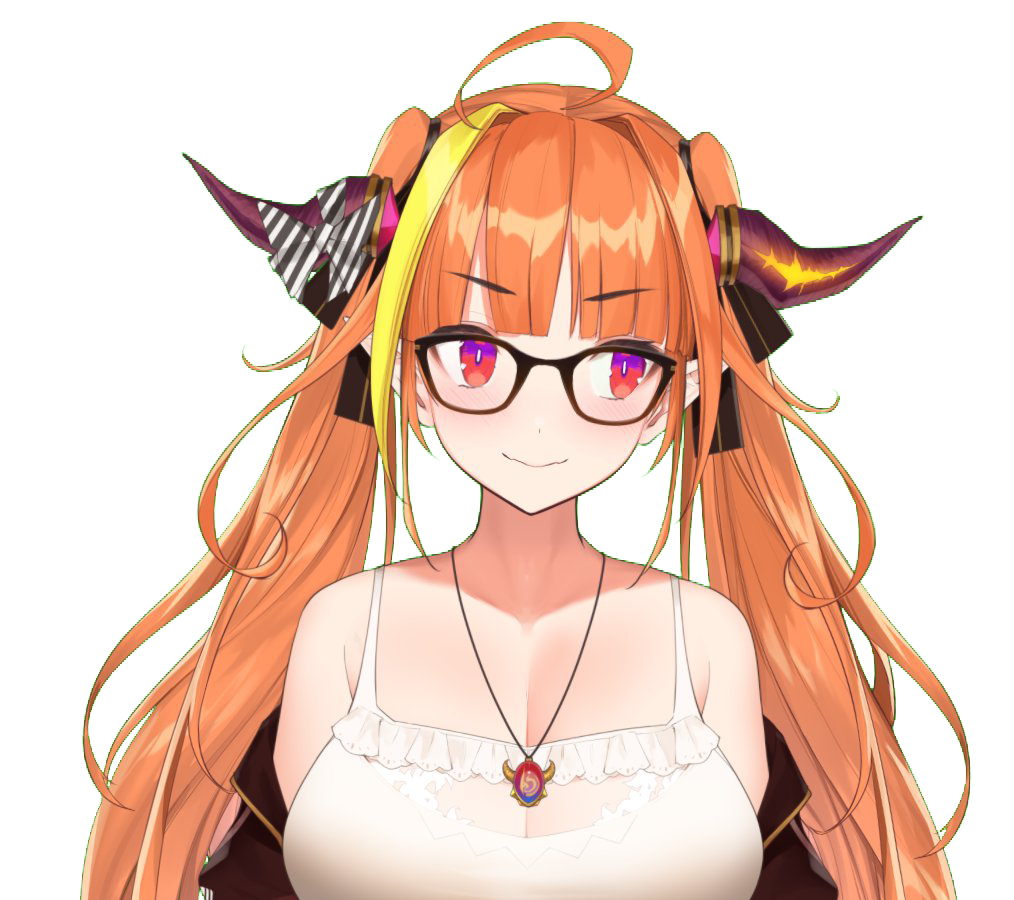
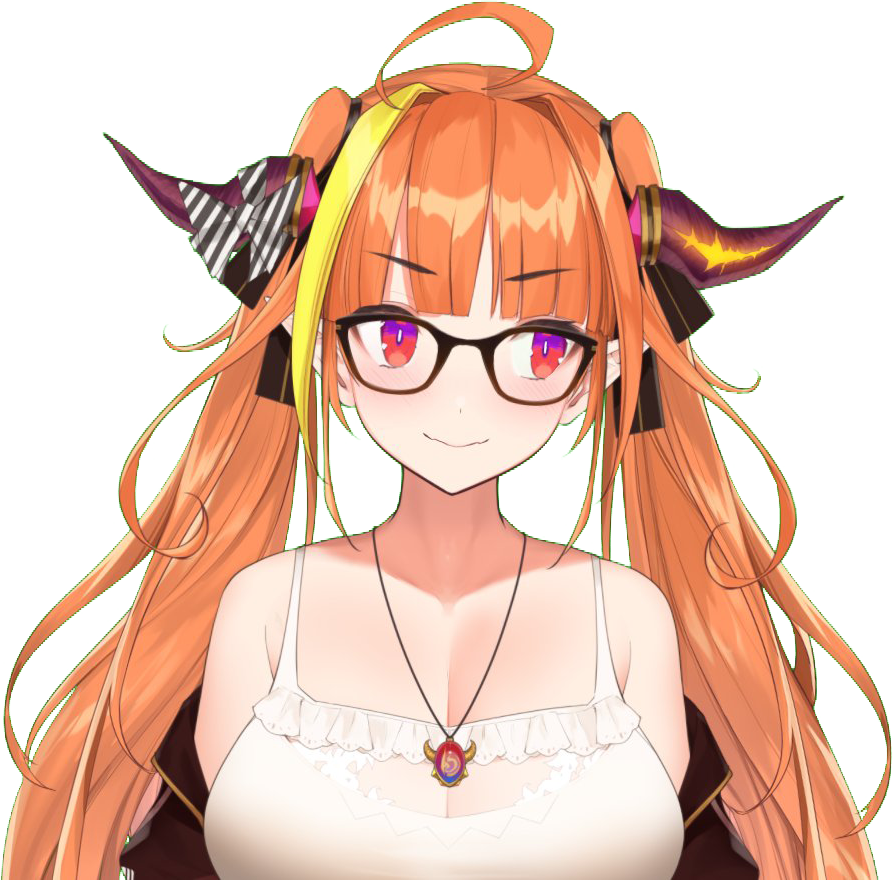
:zap: Update

diff --git a/src/pages/index.module.scss b/src/pages/index.module.scss
@@ -1,9 +1,14 @@
 @use "../utils/mixin.scss" as *;
 
 .primary {
-  min-height: 520px;
+  position: relative;
   padding: 0 20px;
-  background: url("/aphorism/image/index-bg.jpg");
+  overflow: hidden;
+}
+
+.mv {
+  min-height: 520px;
+  background: transparent right bottom / contain no-repeat;
 
   @include min-screen() {
     // position: sticky;
@@ -11,13 +16,14 @@
     position: relative;
     z-index: 0;
     display: grid;
-    grid-template-rows: auto 1fr;
-    grid-template-columns: auto 1fr 25% 25%;
+    grid-template-columns: auto 1fr 50%;
+    max-width: 1280px;
+    margin: 0 auto;
   }
 }
 
 .h1 {
-  padding: 20px 0;
+  padding: 40px 0 14px;
   margin: 0;
   font-family: serif;
   font-size: 42px;
@@ -26,8 +32,8 @@
   @include min-screen() {
     grid-row: 1 / 2;
     grid-column: 1 / 2;
-    padding-bottom: 60px;
-    font-size: 5vw; // fz50pf / bp1000px * 100vw
+    padding: 25px 0 0;
+    font-size: 5vw; // fz50px / bp1000px * 100vw
     text-align: left;
     writing-mode: vertical-lr;
   }
@@ -51,6 +57,7 @@
 
 .description {
   padding: 0 10px;
+  font-family: serif;
   font-feature-settings: normal;
   text-shadow: 0 0 4px #fff, -1px -1px 4px #fff, 1px 1px 4px #fff;
   letter-spacing: 1.2px;
@@ -81,48 +88,28 @@
     }
   }
 
+  @include min-screen(600px) {
+    font-size: 2.4vw;
+  }
+
   @include min-screen() {
     grid-row: 1 / 2;
     grid-column: 2 / 3;
     padding: 35px 0 0 10px;
-    font-size: 1.6vw; // fz16pf / bp1000px * 100vw;
+    font-size: 2vw; // fz20px / bp1000px * 100vw;
 
     &__txt {
       justify-content: flex-end;
     }
   }
   @include min-screen(1600px) {
-    font-size: 25px; // 1.625vw
-  }
-}
-
-.voice {
-  position: relative;
-  z-index: 1;
-  display: block;
-  padding: 0 0 40px;
-
-  &__link {
-    display: block;
-    padding: 30px 30px 14px;
-    font-family: serif;
-    font-weight: bold;
-    line-height: 2;
-    color: inherit;
-    text-decoration: none;
-    background: #fff;
-    border-radius: 10px;
-    box-shadow: 20px 20px 60px #d9d9d9, -20px -20px 60px #fff;
-  }
-  @include min-screen() {
-    grid-row: 2 / 3;
-    grid-column: 1 / 3;
-    padding-bottom: 60px;
-    font-size: 30px;
+    font-size: 32px; // 1600 * 2vw / 100
   }
 }
 
 .coco {
+  margin: -40px 0 0;
+
   &__img {
     display: block;
     max-width: 100%;
@@ -130,18 +117,39 @@
   }
 
   @include min-screen() {
-    position: relative;
+    position: absolute;
+    top: 0;
+    right: 0;
     z-index: -1;
-    grid-row: 1 / -1;
-    grid-column: 1 / -1;
+    width: 100%;
+    height: 100vh;
+    margin-top: 0;
 
     &__img {
+      position: absolute;
+      right: 0;
+      bottom: 0;
       width: auto;
-      height: 100%;
-      object-fit: contain;
-      object-position: bottom right;
-      margin: 0 0 0 auto;
+      max-width: none;
+      height: 80vw;
+      max-height: 90%;
     }
+  }
+}
+
+.youtube {
+  position: absolute;
+  top: 0;
+  right: 0;
+
+  &__link {
+    display: block;
+    padding: 4px 40px;
+    font-size: 12px;
+    color: #fff;
+    text-decoration: none;
+    background: #ff0102;
+    transform: translate(38px, 11px) rotate(38deg);
   }
 }
 
@@ -149,8 +157,8 @@
   position: relative;
   z-index: 1;
   background: #fff;
-  border-top: 1px solid #000;
+
   @include min-screen() {
     padding-bottom: 100px;
-}
+  }
 }

diff --git a/src/pages/index.tsx b/src/pages/index.tsx
@@ -4,9 +4,10 @@ import { Helmet } from 'react-helmet'
 import { AllMd } from '../components/AllMd'
 import { Footer } from '../components/Footer'
 import { SingleAphorismLink } from '../components/SingleAphorismLink'
-import { useStaticQuery, graphql } from 'gatsby'
+import { useStaticQuery, graphql, Link } from 'gatsby'
 import { use100vh } from 'react-div-100vh'
 import cocoImg from './index/index-coco.png'
+import primaryBg from './index/index-bg.jpg'
 import * as styles from './index.module.scss'
 
 const IndexPage = () => {
@@ -30,26 +31,28 @@ const IndexPage = () => {
         <title>{site.siteMetadata.title}</title>
       </Helmet>
 
-      <div className={styles.primary} style={{ minHeight: height }}>
-        <h1 className={styles.h1}>
-          {site.siteMetadata.title}
-        </h1>
+      <div className={styles.primary} style={{ backgroundImage: `url(${primaryBg})` }}>
+        <div className={styles.mv} style={{ minHeight: height }}>
+          <h1 className={styles.h1}>
+            {site.siteMetadata.title}
+          </h1>
 
-        <div className={styles.description}>
-          <p className={styles.description__txt}>
-            <span className={styles.description__row}>心に残った一言。大切にしている言葉。</span>
-            <span className={styles.description__row}>人生観を変えた一瞬。</span>
-            <span className={styles.description__row}>たつのこたちの心に染み渡る、</span>
-            <span className={styles.description__row}>そんな数々の名シーンを紹介します。</span>
-          </p>
+          <div className={styles.description}>
+            <p className={styles.description__txt}>
+              <span className={styles.description__row}>心に残った一言。大切にしている言葉。</span>
+              <span className={styles.description__row}>人生観を変えた一瞬。</span>
+              <span className={styles.description__row}>たつのこたちの心に染み渡る、</span>
+              <span className={styles.description__row}>そんな数々の名シーンを紹介します。</span>
+            </p>
+          </div>
+
+          <div className={styles.coco}>
+            <img src={cocoImg} alt="" className={styles.coco__img} draggable={false} />
+          </div>
         </div>
 
-        <div className={styles.coco}>
-          <img src={cocoImg} alt="" className={styles.coco__img} />
-        </div>
-
-        <div className={styles.voice}>
-          <SingleAphorismLink className={styles.voice__link} />
+        <div className={styles.youtube}>
+          <Link to="https://www.youtube.com/channel/UCS9uQI-jC3DE0L4IpXyvr6w" className={styles.youtube__link}>Coco Ch.</Link>
         </div>
       </div>
 

diff --git a/src/components/AllMd.module.scss b/src/components/AllMd.module.scss
@@ -2,6 +2,7 @@
 
 .wrap {
   padding: 20px;
+
   @include min-screen() {
     padding: 40px;
   }
@@ -30,27 +31,49 @@
 }
 
 .a {
-  display: flex;
-  align-items: center;
-  justify-content: center;
-  min-height: 130px;
-  padding: 20px;
   font-size: 12px;
   font-weight: bold;
   color: inherit;
-  background: #fff;
   border-radius: 6px;
-  box-shadow: inset 20px 20px 60px #d9d9d9, inset -20px -20px 60px #fff;
+
+  &__inner {
+    display: flex;
+    align-items: center;
+    justify-content: center;
+    min-height: 130px;
+    padding: 20px;
+    border-radius: 6px;
+    box-shadow: inset 20px 20px 60px #d9d9d9, inset -20px -20px 60px #fff;
+  }
 
   @include min-screen() {
-    position: relative;
-    flex-grow: 1;
-    padding-right: 40px;
-    padding-bottom: 50px;
-    padding-left: 40px;
+    display: flex;
     font-size: 16px;
     font-weight: normal;
     text-decoration: none;
+    background: linear-gradient(145deg, #fff, #e6e6e6);
+    transition: .3s box-shadow ease-out;
+
+    &__inner {
+      position: relative;
+      z-index: 0;
+      flex-grow: 1;
+      padding-right: 40px;
+      padding-bottom: 60px;
+      padding-left: 40px;
+      background: #fff;
+      transition: .3s box-shadow ease-out, .3s background-color ease-out;
+    }
+
+    &:hover,
+    &:focus {
+      box-shadow: 13px 13px 26px #c2c2c2, -13px -13px 26px #fff;
+
+      .a__inner {
+        background: rgba(255, 255, 255, 0);
+        box-shadow: none;
+      }
+    }
   }
 }
 
@@ -65,41 +88,32 @@
 }
 
 .more {
-  display: block;
-  margin: 20px 0 0;
-  font-family: sans-serif;
-  font-size: 12px;
-  font-weight: normal;
-  text-align: right;
-
-  &__inner {
-    position: relative;
-    display: inline-block;
-    padding: 0 0 0 11px;
-
-    &::before {
-      position: absolute;
-      top: 10px;
-      left: 0;
-      display: block;
-      content: "";
-      border: solid transparent;
-      border-width: 3px 0 3px 4px;
-      border-left-color: #000;
-    }
-  }
+  display: none;
 
   @include min-screen() {
     position: absolute;
     right: 20px;
-    bottom: 10px;
-    font-size: 16px;
+    bottom: 12px;
+    display: block;
+    margin: 20px 0 0;
+    font-family: sans-serif;
+    font-weight: normal;
+    text-align: right;
 
     &__inner {
-      padding-left: 14px;
+      position: relative;
+      display: inline-block;
+      padding: 0 0 0 14px;
 
       &::before {
+        position: absolute;
+        top: 8px;
+        left: 0;
+        display: block;
+        content: "";
+        border: solid transparent;
         border-width: 6px 0 6px 7px;
+        border-left-color: #000;
       }
     }
   }

diff --git a/src/components/AllMd.tsx b/src/components/AllMd.tsx
@@ -47,7 +47,7 @@ export const AllMd: Component = ({max}) => {
     list.push(
       <li key={fields.slug} className={styles.li}>
         <Link to={fields.slug} className={styles.a}>
-          <span>
+          <span className={styles.a__inner}>
             <span className={styles.txt}>
               {frontmatter.words}
             </span>
